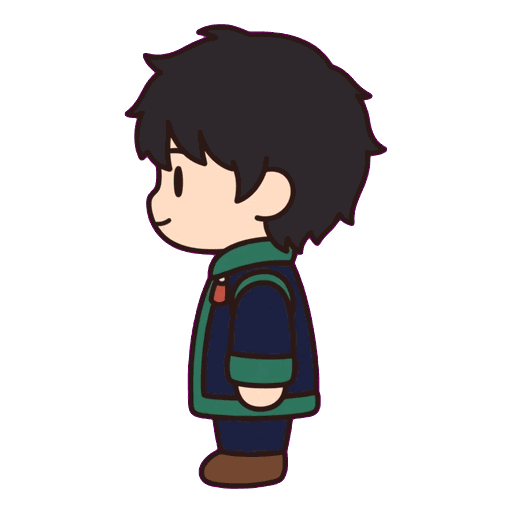
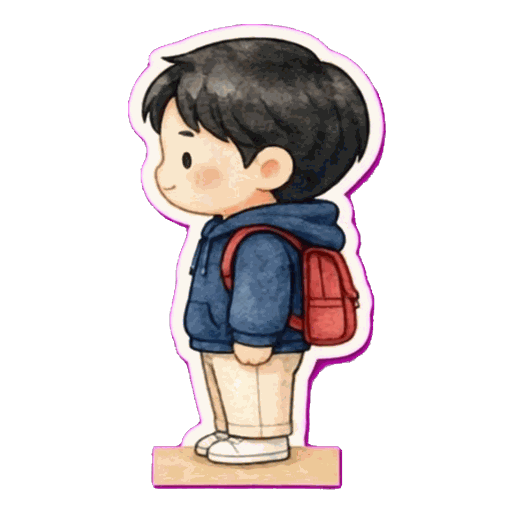
Khung bước đi: 8 người đi đường, Minh, 7 NPC đi dạo
- Người đi đường: Linda, Sofia (ngang); Walter, Marco, Amy, David, Helen (trước + ngang); Kenji (đủ 3 hướng);
  hình đứng thay bằng hình cùng tấm với khung bước; hướng chưa có đủ 2 khung thì đi nhún nhảy
- Minh vẽ lại kiểu giấy, đủ khung bước 3 hướng
- NPC Ben, Carlos, Dan, Nora, Kim, Jake, Zoe đi chậm qua lại quanh chỗ đứng (walk_<npc>_left*), nghỉ ở hai đầu
  quay mặt ra; người chơi lại gần hoặc trời mưa thì đứng yên
- Cắt: mỗi hướng cùng tỉ lệ với hình đứng của hướng đó (cao 466), chân y = 490, canh theo tâm đầu;
  tấm nền hồng đậm của Zoe khoá nền theo màu riêng
- walkSprite chỉ hỏi tệp có thật (hết lỗi 404 walk_*_down); tay cầm ô theo hình mới
- Lưu 25 tấm khung bước chưa dùng (người bán, giáo viên…) ở art/walk-sheets/
- sw v81

Claude-Session: https://claude.ai/code/session_01AHzGepJt93aQaJT6t7Vsc8

Changed region(s): [[0.25, 0.0312, 0.7812, 0.9688]]

diff --git a/game/data/asset_rev.js b/game/data/asset_rev.js
@@ -190,29 +190,59 @@ G.ASSET_REV = {"badge_1.webp":"4cd4eec0",
 "pc_tree_orange.png":"0cc246d4",
 "pc_tree_pine.png":"ef1986f5",
 "pc_tree_small.png":"49a4f456",
-"person_amy_down.png":"0db84992",
-"person_amy_left.png":"bb2c739d",
+"person_amy_down.png":"59ed3288",
+"person_amy_down_w1.png":"f30d0e13",
+"person_amy_down_w2.png":"09dfcded",
+"person_amy_left.png":"b02ec638",
+"person_amy_left_w1.png":"dafad17c",
+"person_amy_left_w2.png":"8910237d",
 "person_amy_up.png":"64ae3b7a",
-"person_david_down.png":"dbe05b76",
-"person_david_left.png":"a4938900",
+"person_david_down.png":"0bc04fe5",
+"person_david_down_w1.png":"5b1dfe98",
+"person_david_down_w2.png":"bd5b421b",
+"person_david_left.png":"e7c9677a",
+"person_david_left_w1.png":"1d7ead34",
+"person_david_left_w2.png":"565393b7",
 "person_david_up.png":"5a44f62d",
-"person_helen_down.png":"eb09070e",
-"person_helen_left.png":"4fb98b44",
-"person_helen_up.png":"4e821484",
-"person_kenji_down.png":"a4f61283",
-"person_kenji_left.png":"dd212944",
-"person_kenji_up.png":"4a46001f",
+"person_helen_down.png":"9a70cad1",
+"person_helen_down_w1.png":"d8c7d2a1",
+"person_helen_down_w2.png":"fd395cc9",
+"person_helen_left.png":"fea03b8f",
+"person_helen_left_w1.png":"900da8ec",
+"person_helen_left_w2.png":"143c7d37",
+"person_helen_up.png":"8c0c31e8",
+"person_kenji_down.png":"2e9cf793",
+"person_kenji_down_w1.png":"925aaa9c",
+"person_kenji_down_w2.png":"649bba33",
+"person_kenji_left.png":"ba4c47ef",
+"person_kenji_left_w1.png":"45c82900",
+"person_kenji_left_w2.png":"d0511304",
+"person_kenji_up.png":"9a7e2b59",
+"person_kenji_up_w1.png":"c5622f1f",
+"person_kenji_up_w2.png":"7634cd73",
 "person_linda_down.png":"b8d7b103",
-"person_linda_left.png":"60109e77",
+"person_linda_left.png":"f02e33bb",
+"person_linda_left_w1.png":"09cbd5d4",
+"person_linda_left_w2.png":"f8717cc0",
 "person_linda_up.png":"089601df",
-"person_marco_down.png":"8205d7fb",
-"person_marco_left.png":"bea9c555",
+"person_marco_down.png":"a74e0511",
+"person_marco_down_w1.png":"79d9951d",
+"person_marco_down_w2.png":"983f57ef",
+"person_marco_left.png":"2918756f",
+"person_marco_left_w1.png":"bc2a4ac1",
+"person_marco_left_w2.png":"fa2c5b23",
 "person_marco_up.png":"906888d4",
 "person_sofia_down.png":"86b6ceae",
-"person_sofia_left.png":"883f8364",
+"person_sofia_left.png":"04257606",
+"person_sofia_left_w1.png":"d44b31bb",
+"person_sofia_left_w2.png":"ea2e52a5",
 "person_sofia_up.png":"aff2084f",
-"person_walter_down.png":"d98fe2ef",
-"person_walter_left.png":"72de95d1",
+"person_walter_down.png":"4c824401",
+"person_walter_down_w1.png":"b298eeac",
+"person_walter_down_w2.png":"18e17e9d",
+"person_walter_left.png":"10e8726d",
+"person_walter_left_w1.png":"2fe3fe43",
+"person_walter_left_w2.png":"c4ea06f9",
 "person_walter_up.png":"9e046325",
 "plane.png":"40ea1fde",
 "player_han_down.png":"5ba7e84f",
@@ -227,11 +257,17 @@ G.ASSET_REV = {"badge_1.webp":"4cd4eec0",
 "player_han_up_w1.png":"55cf18e2",
 "player_han_up_w2.png":"42edfbb3",
 "player_han_wow.png":"2c65038f",
-"player_minh_down.png":"a4024e1d",
+"player_minh_down.png":"c1f2ed56",
+"player_minh_down_w1.png":"443a82d2",
+"player_minh_down_w2.png":"75f2e860",
 "player_minh_happy.png":"a3056630",
-"player_minh_left.png":"829526a2",
+"player_minh_left.png":"205fd017",
+"player_minh_left_w1.png":"ae7fac14",
+"player_minh_left_w2.png":"6059c4e7",
 "player_minh_think.png":"4df0cdf6",
-"player_minh_up.png":"b0a99570",
+"player_minh_up.png":"8d011f9b",
+"player_minh_up_w1.png":"3fbec593",
+"player_minh_up_w2.png":"8c0b1f66",
 "player_minh_wow.png":"d31b81a8",
 "prop_bench.png":"7e01bcfc",
 "prop_car.png":"13731448",
@@ -257,4 +293,25 @@ G.ASSET_REV = {"badge_1.webp":"4cd4eec0",
 "souvenir_medkit.png":"0adc6ea2",
 "vehicle_bus.png":"97defac2",
 "vehicle_metro.png":"8578ec08",
-"vehicle_metro_open.png":"4bc40774"};
+"vehicle_metro_open.png":"4bc40774",
+"walk_ben_left.png":"33b2e903",
+"walk_ben_left_w1.png":"68c5c983",
+"walk_ben_left_w2.png":"74bb3f8b",
+"walk_carlos_left.png":"88d56d6b",
+"walk_carlos_left_w1.png":"247ccedf",
+"walk_carlos_left_w2.png":"cfdf7a8f",
+"walk_dan_left.png":"1341736a",
+"walk_dan_left_w1.png":"e59bb899",
+"walk_dan_left_w2.png":"b6c4cd1a",
+"walk_jake_left.png":"cd950f50",
+"walk_jake_left_w1.png":"48ae9874",
+"walk_jake_left_w2.png":"3eea39c7",
+"walk_kim_left.png":"c8be86fd",
+"walk_kim_left_w1.png":"f015629e",
+"walk_kim_left_w2.png":"53699729",
+"walk_nora_left.png":"26e65619",
+"walk_nora_left_w1.png":"903e789c",
+"walk_nora_left_w2.png":"69fed7b7",
+"walk_zoe_left.png":"90f61d19",
+"walk_zoe_left_w1.png":"a3557c35",
+"walk_zoe_left_w2.png":"416834d9"};

diff --git a/game/js/engine.js b/game/js/engine.js
@@ -56,6 +56,7 @@ var G = window.G || (window.G = {});
     target = null; pending = null; path = []; fade = 1;
     G.S.viTri = { canh: id, x: Math.round(P.x), y: Math.round(P.y) };
     G.save();
+    var PH = people(); for (var ph = 0; ph < PH.length; ph++) if (PH[ph].hx !== undefined) { PH[ph].x = PH[ph].hx; PH[ph].pmov = false; }   // NPC đi dạo: vào cảnh thì đứng lại chỗ cũ
     camSnap = true; spawnTown(); fx = []; hudT = 0; weatherHint(); makePuddles();
     if (G.rainSound) G.rainSound(scene.kind === 'city' && G.weather() === 'rain');
     document.getElementById('hud-title').textContent = scene.title;
@@ -229,6 +230,7 @@ var G = window.G || (window.G = {});
     var PP = people();
     for (var pq = 0; pq < PP.length; pq++) {
       var po = PP[pq];
+      if (po === skipP) continue;   // NPC đang đi: không tự chặn chính mình
       if (po.simg) { var sk0 = (po.ss || 280) / 280; if (Math.abs(x - po.x) < 128 * sk0 && y > po.y - 95 * sk0 && y < po.y + 10) return true; continue; }   // quầy hình giấy
       if (po.bimg) { var bk0 = (po.bs || 210) / 210; if (Math.abs(x - po.x) < 90 * bk0 && y > po.y - 120 * bk0 && y < po.y + 6) return true; continue; }   // tiệm có hình toà nhà
       var pd = x - po.x, pe = (y - po.y) * 2; if (pd * pd + pe * pe < 26 * 26) return true;
@@ -314,7 +316,7 @@ var G = window.G || (window.G = {});
     // camera đi theo mượt (trễ nhẹ), vào cảnh mới thì đặt ngay
     if (camSnap) { cam.x = cx; cam.y = cy; camSnap = false; }
     else { var kf = Math.min(1, dt * 7); cam.x += (cx - cam.x) * kf; cam.y += (cy - cam.y) * kf; }
-    updateTown(dt); updateFx(dt);
+    updateTown(dt); updatePeople(dt); updateFx(dt);
     if (fade > 0) fade = Math.max(0, fade - dt * 3);
   }
 
@@ -572,6 +574,25 @@ var G = window.G || (window.G = {});
   }
   G.TOWNIE_SETS = G.TOWNIE_SETS || [];
   for (var tsI = 0; tsI < G.TOWNIE_SETS.length; tsI++) G.asset('person_' + G.TOWNIE_SETS[tsI] + '_down.png');   // tải sẵn
+  /* NPC có khung bước (walk_<npc>_left / _w1 / _w2, đặt ChatGPT): đi chậm qua lại quanh chỗ đứng, nghỉ ở hai đầu
+     (lúc nghỉ quay mặt ra như hình đứng). Người chơi lại gần hoặc trời mưa (đang cầm ô) thì đứng yên, quay mặt ra. */
+  var skipP = null;
+  function updatePeople(dt) {
+    var PP = people(), rain = raining();
+    for (var i = 0; i < PP.length; i++) {
+      var o = PP[i];
+      if (o.stall || o.bimg || !G.hasWalk('walk_' + o.npc, 'left')) continue;
+      if (o.hx === undefined) { o.hx = o.x; o.pt = 0; o.pw = 1 + Math.random() * 3; o.pv = Math.random() < 0.5 ? -1 : 1; o.pdir = o.pv < 0 ? 'left' : 'right'; }
+      var dx = P.x - o.x, dy = P.y - o.y;
+      o.pnear = dx * dx + dy * dy < 230 * 230;
+      if (o.pnear || rain) { o.pmov = false; continue; }
+      if (o.pw > 0) { o.pw -= dt; o.pmov = false; continue; }
+      var nx = o.x + o.pv * 36 * dt;
+      skipP = o; var bad = Math.abs(nx - o.hx) > 85 || blocked(nx + o.pv * 22, o.y); skipP = null;
+      if (bad) { o.pv = -o.pv; o.pw = 1.5 + Math.random() * 3; o.pmov = false; continue; }
+      o.x = nx; o.pmov = true; o.pt += dt; o.pdir = o.pv < 0 ? 'left' : 'right';
+    }
+  }
   function updateTown(dt) {
     for (var i = 0; i < town.length; i++) {
       var p = town[i];
@@ -1015,7 +1036,8 @@ var G = window.G || (window.G = {});
     shadow(o.x, py, 20);
     var u = raining() && !o.stall ? (im ? holdAt(im, o.x - 62, py + 4 - 124, 124, false, 0, false) : avatarHold(n.av, o.x, py + 4, 104, dir, null)) : null;
     if (u) umbrella(u, (o.x >> 3) % 6, 0, 'pole');
-    if (im) G.hopDraw(ctx, function (c, X, Y, S) { G.drawAsset(c, im, X, Y, S, S); }, o.x, py + 4, 124, 0, false);
+    if (o.pmov) G.walkSprite(ctx, 'walk_' + o.npc, o.x, py + 4, 124, o.pdir, o.pt * 9, true);   // đang đi dạo: khung bước nhìn ngang
+    else if (im) G.hopDraw(ctx, function (c, X, Y, S) { G.drawAsset(c, im, X, Y, S, S); }, o.x, py + 4, 124, 0, false);
     else G.drawAvatar(ctx, n.av, o.x, py + 4, 104, dir, 0, false);
     if (u) umbrella(u, (o.x >> 3) % 6, 0, 'top', im || dir !== 'up');
     if (o.stall) { if (o.simg) { var cs = o.ss || 280; G.drawAsset(ctx, o.simg, o.x - cs / 2, o.y + 12 - cs * 0.975, cs, cs); } else drawStallFront(o); py = o.y + 6; }   // quầy hình giấy vẽ trước người bán; tên nằm dưới quầy

diff --git a/game/data/hands.js b/game/data/hands.js
@@ -28,34 +28,34 @@ G.HANDS = {
     'npc_dan.png': [66, 69, '#f6dcc8', 4.9],
     'npc_mia.png': [59, 62, '#f6dcc8', 4.7],
     'npc_nora.png': [29, 67, '#f6dcc8', 4.7],
-    'person_amy_down.png': [60.8, 65.1, '#f9e8ce', 4.7],
-    'person_amy_left.png': [48.5, 65.7, '#fae7cc', 6.1],
+    'person_amy_down.png': [61.6, 65.0, '#fae8cd', 4.7],
+    'person_amy_left.png': [46.4, 65.0, '#f9e7cd', 4.7],
     'person_amy_up.png': [60.7, 65.4, '#f7e6cf', 5.7],
-    'person_david_down.png': [63.7, 65.2, '#666667', 4.7],
-    'person_david_left.png': [58.0, 64.6, '#353637', 4.7],
+    'person_david_down.png': [64.6, 64.4, '#666767', 4.7],
+    'person_david_left.png': [58.7, 64.7, '#28292b', 4.9],
     'person_david_up.png': [63.1, 65.1, '#555557', 4.7],
-    'person_helen_down.png': [67.2, 68.9, '#fedcc1', 4.7],
-    'person_helen_left.png': [51.0, 71.2, '#fedcc1', 9.0],
-    'person_helen_up.png': [67.0, 69.0, '#fdddc3', 6.1],
-    'person_kenji_down.png': [64.5, 62.1, '#fecba4', 4.7],
-    'person_kenji_left.png': [50.8, 63.5, '#fecca4', 4.9],
-    'person_kenji_up.png': [64.9, 62.4, '#fdcca4', 4.9],
+    'person_helen_down.png': [64.9, 67.5, '#f6ddc5', 4.7],
+    'person_helen_left.png': [47.3, 67.5, '#f9d7b8', 4.7],
+    'person_helen_up.png': [64.7, 66.5, '#f9d5b6', 4.7],
+    'person_kenji_down.png': [68.1, 57.5, '#fbd7ac', 4.7],
+    'person_kenji_left.png': [50.1, 58.9, '#fbd6aa', 4.7],
+    'person_kenji_up.png': [67.5, 57.2, '#fad4a9', 4.7],
     'person_linda_down.png': [64.3, 65.0, '#11284d', 4.7],
-    'person_linda_left.png': [38.1, 64.9, '#73472e', 5.3],
+    'person_linda_left.png': [37.6, 64.9, '#64371a', 4.9],
     'person_linda_up.png': [65.5, 64.9, '#af8b8d', 4.9],
-    'person_marco_down.png': [64.9, 64.6, '#f9e8d6', 4.7],
-    'person_marco_left.png': [53.4, 65.5, '#f9e7d4', 5.5],
-    'person_marco_up.png': [65.6, 65.2, '#f7e5d2', 4.7],
+    'person_marco_down.png': [65.2, 64.6, '#fae8d6', 4.9],
+    'person_marco_left.png': [51.7, 65.3, '#fae7d3', 4.7],
+    'person_marco_up.png': [65.6, 65.1, '#f7e5d2', 4.7],
     'person_sofia_down.png': [67.6, 64.9, '#fbf7ed', 4.7],
-    'person_sofia_left.png': [64.8, 64.1, '#898957', 4.7],
+    'person_sofia_left.png': [50, 70, '#f6dcc8', 4.7],
     'person_sofia_up.png': [67.6, 63.6, '#f5ece6', 4.7],
-    'person_walter_down.png': [67.0, 65.1, '#69833b', 4.7],
-    'person_walter_left.png': [39.7, 64.1, '#6a8948', 5.3],
+    'person_walter_down.png': [67.8, 65.1, '#67843b', 4.9],
+    'person_walter_left.png': [38.1, 64.3, '#46631d', 4.7],
     'person_walter_up.png': [66.8, 64.9, '#8fa966', 4.7],
     'player_han_down.png': [63.7, 69.7, '#f6dcc8', 4.7],
     'player_han_left.png': [50.6, 71, '#f6dcc8', 4.7],
     'player_han_up.png': [64.1, 70.3, '#f6dcc8', 4.7],
-    'player_minh_down.png': [70.8, 74.5, '#feddc3', 4.7],
-    'player_minh_left.png': [50.8, 77.2, '#feddc4', 4.7],
-    'player_minh_up.png': [70.8, 74.9, '#fdddc3', 4.7]
+    'player_minh_down.png': [70.5, 65.7, '#685b4e', 4.9],
+    'player_minh_left.png': [65.9, 65.3, '#d5645a', 4.7],
+    'player_minh_up.png': [58.8, 74.5, '#f7e8cf', 4.7]
 };

diff --git a/game/js/avatar.js b/game/js/avatar.js
@@ -91,7 +91,7 @@ var G = window.G || (window.G = {});
     var d = dir === 'right' ? 'left' : dir, flip = dir === 'right', stand = base + '_' + d + '.png';
     if (!has(stand)) { stand = base + '_down.png'; d = 'down'; flip = false; }
     if (!G.asset(stand).ok) {   // hình hướng này đang tải: tạm dùng hình mặt trước; chưa có gì thì chưa vẽ (không hiện ô chờ)
-      if (d === 'down' || !G.asset(base + '_down.png').ok) return;
+      if (d === 'down' || !has(base + '_down.png') || !G.asset(base + '_down.png').ok) return;
       stand = base + '_down.png'; d = 'down'; flip = false;
     }
     var hw = G.hasWalk(base, d);

diff --git a/game/sw.js b/game/sw.js
@@ -1,7 +1,7 @@
 /* Chạy offline: giữ toàn bộ code game, dữ liệu và mọi hình trong assets/.
    Hình tải qua assets/<tên>?v=<mã nội dung> (data/asset_rev.js): mỗi lần cập nhật app chỉ tải hình mới hoặc hình đã thay,
    hình không đổi chép lại từ bản trong máy. Tệp giọng đọc được giữ lại khi đã nghe một lần. */
-var VERSION = 'thegioi-v80';
+var VERSION = 'thegioi-v81';
 // giọng đọc: tên tệp đặt theo nội dung câu nên không bao giờ đổi, giữ riêng một kho để cập nhật app không phải tải lại
 var AUDIO = 'connectlife-audio-v2';
 var CORE = [

diff --git a/art/walk-sheets/README.md b/art/walk-sheets/README.md
@@ -1,0 +1,8 @@
+# Khung bước đi chưa dùng trong game
+
+Tấm khung bước (đứng / bước 1 / bước 2, trước – sau – ngang) anh Han đặt ChatGPT cho các nhân vật đứng yên một chỗ
+(người bán trong tiệm, giáo viên, nhân viên quầy…). Game chưa cho họ đi lại nên chưa cắt vào `game/assets/`.
+Khi cần: cắt theo cách của các nhân vật đã dùng (hình đứng cao 466 px trong khung 512, chân y = 490, canh theo tâm đầu),
+đặt tên `walk_<npc>_left.png`, `_left_w1.png`, `_left_w2.png` rồi chạy `node tools/asset-rev.mjs`.
+
+Đuôi `_b`, `_c`: bản vẽ khác của cùng nhân vật.
